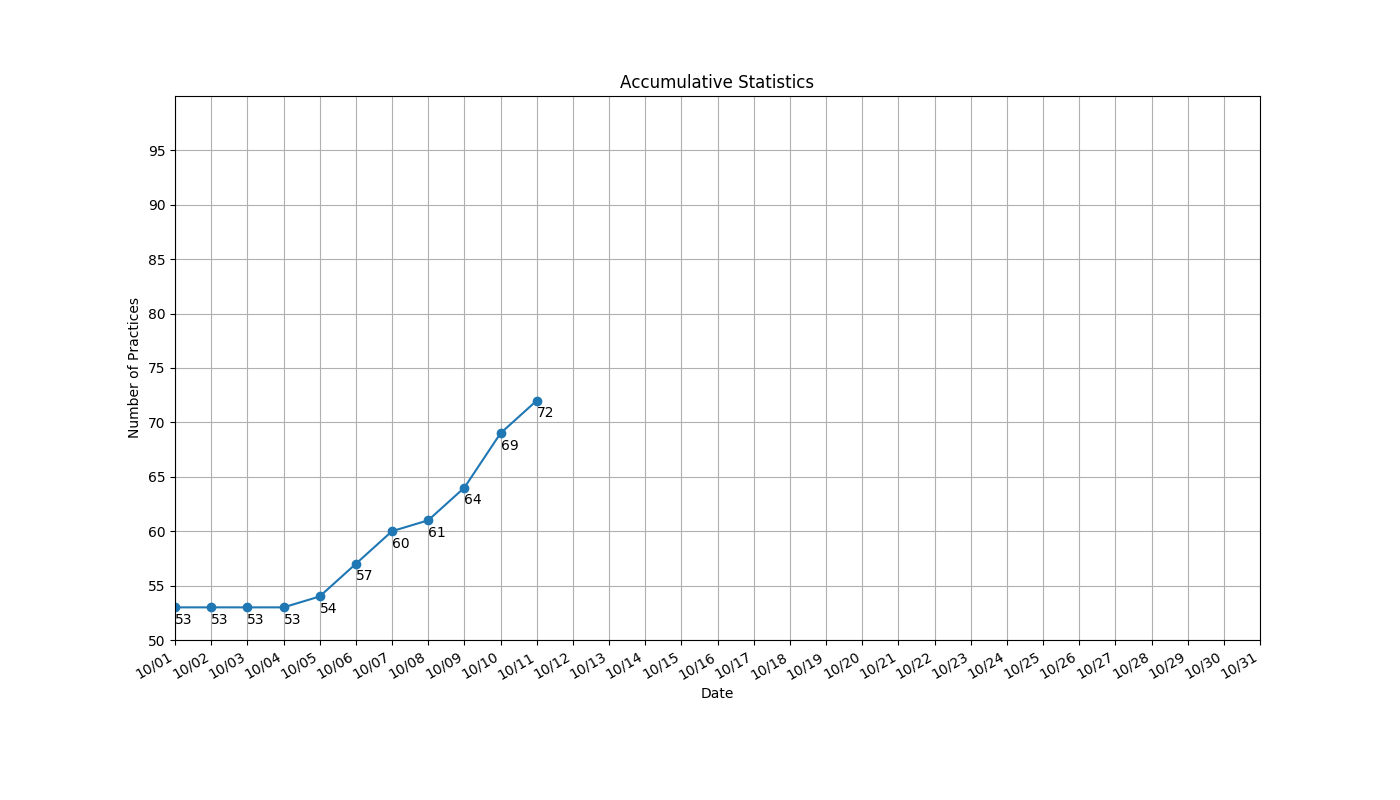
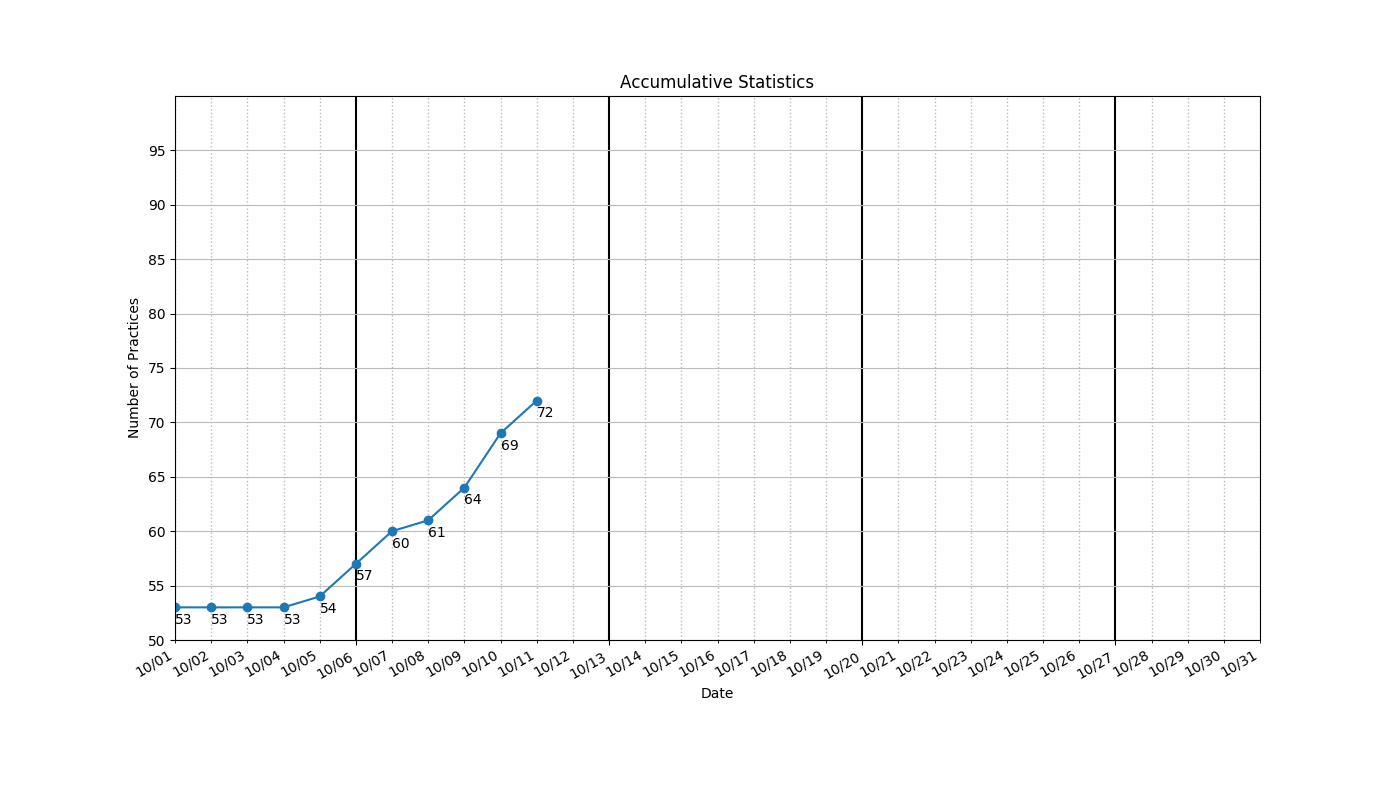
Separated the formats of the grid for week and day in the figure

diff --git a/algodraw.py b/algodraw.py
@@ -35,17 +35,22 @@ def draw(dates, values):
         title="Accumulative Statistics")
 
     xfmt = mdates.DateFormatter("%m/%d")
-    #xloc = mdates.WeekdayLocator(SUNDAY)
-    xloc = mdates.DayLocator()
+    xloc1 = mdates.WeekdayLocator(SUNDAY)
+    xloc2 = mdates.DayLocator()
     ax.xaxis.set_major_formatter(xfmt)
-    ax.xaxis.set_major_locator(xloc)
-    ax.grid(True)
+    ax.xaxis.set_minor_formatter(xfmt)
+    ax.xaxis.set_major_locator(xloc1) #major: week
+    ax.xaxis.set_minor_locator(xloc2) #minor: day
+
+    ax.grid(which='major', color='k', axis ='x', linestyle='-', linewidth=1.5)
+    ax.grid(which='minor', color='#bbbbbb', axis ='x', linestyle=':', linewidth=1)
+    ax.grid(which='major', color='#bbbbbb', axis ='y')
     ax.set_xlim(datetime.datetime(2019,10,1), datetime.datetime(2019,10,31)) 
     ax.set_ylim(50,100) 
 
     plt.plot_date(dates, values, '-', marker='o')
     plt.yticks(np.arange(50, 100, step=5))
-    plt.gcf().autofmt_xdate()
+    plt.gcf().autofmt_xdate(which='both')
     for i,j in zip(dates, values):
         ax.annotate(str(j),xy=(i, j - 1.5))
     #plt.show()

diff --git a/README.md b/README.md
@@ -48,6 +48,7 @@ algo
 ├── linkedlist
 │   ├── _0021_MergeTwoSortedLists.py
 │   ├── _0024_SwapNodesInPairs.py
+│   ├── _0061_RotateList.py
 │   └── _0206_ReverseLinkedList.py
 ├── recursion
 │   ├── _0050_Pow(x,n).py
@@ -71,6 +72,7 @@ algo
 │   ├── _0110_BalancedBinaryTree.py
 │   ├── _0111_MinimumDepthOfBinaryTree.py
 │   ├── _0112_PathSum.py
+│   ├── _0113_PathSum2.py
 │   ├── _0144_BinaryTreePreorderTraversal.py
 │   ├── _0226_InvertBinaryTree.py
 │   ├── _0230_KthSmallestElementInBST.py
@@ -89,7 +91,7 @@ algo
     ├── _0127_WordLadder.py
     └── wordladder.py
 
-14 directories, 74 files
+14 directories, 76 files
 =====================================
 _0001_TwoSum.py
 _0005_LongestPalindromicSubstring.py
@@ -106,6 +108,7 @@ _0046_Permutations.py
 _0047_Permutations2.py
 _0050_Pow(x,n).py
 _0051_N-Queens.py
+_0061_RotateList.py
 _0069_Sqrt.py
 _0070_ClimbingStairs.py
 _0074_SearchA2DMatrix.py
@@ -123,6 +126,7 @@ _0107_BinaryTreeLevelOrderTraversal2.py
 _0110_BalancedBinaryTree.py
 _0111_MinimumDepthOfBinaryTree.py
 _0112_PathSum.py
+_0113_PathSum2.py
 _0118_PascalsTriangle.py
 _0119_PascalsTriangle2.py
 _0125_ValidPalindrome.py
@@ -164,6 +168,6 @@ _0977_SquaresOfASortedArray.py
 _1046_LastStoneWeight.py
 _1079_LetterTilePossibilities.py
 =====================================
-Num of Python Practice:  72
+Num of Python Practice:  74
 ```
 ![Alt text](statistics.png)
